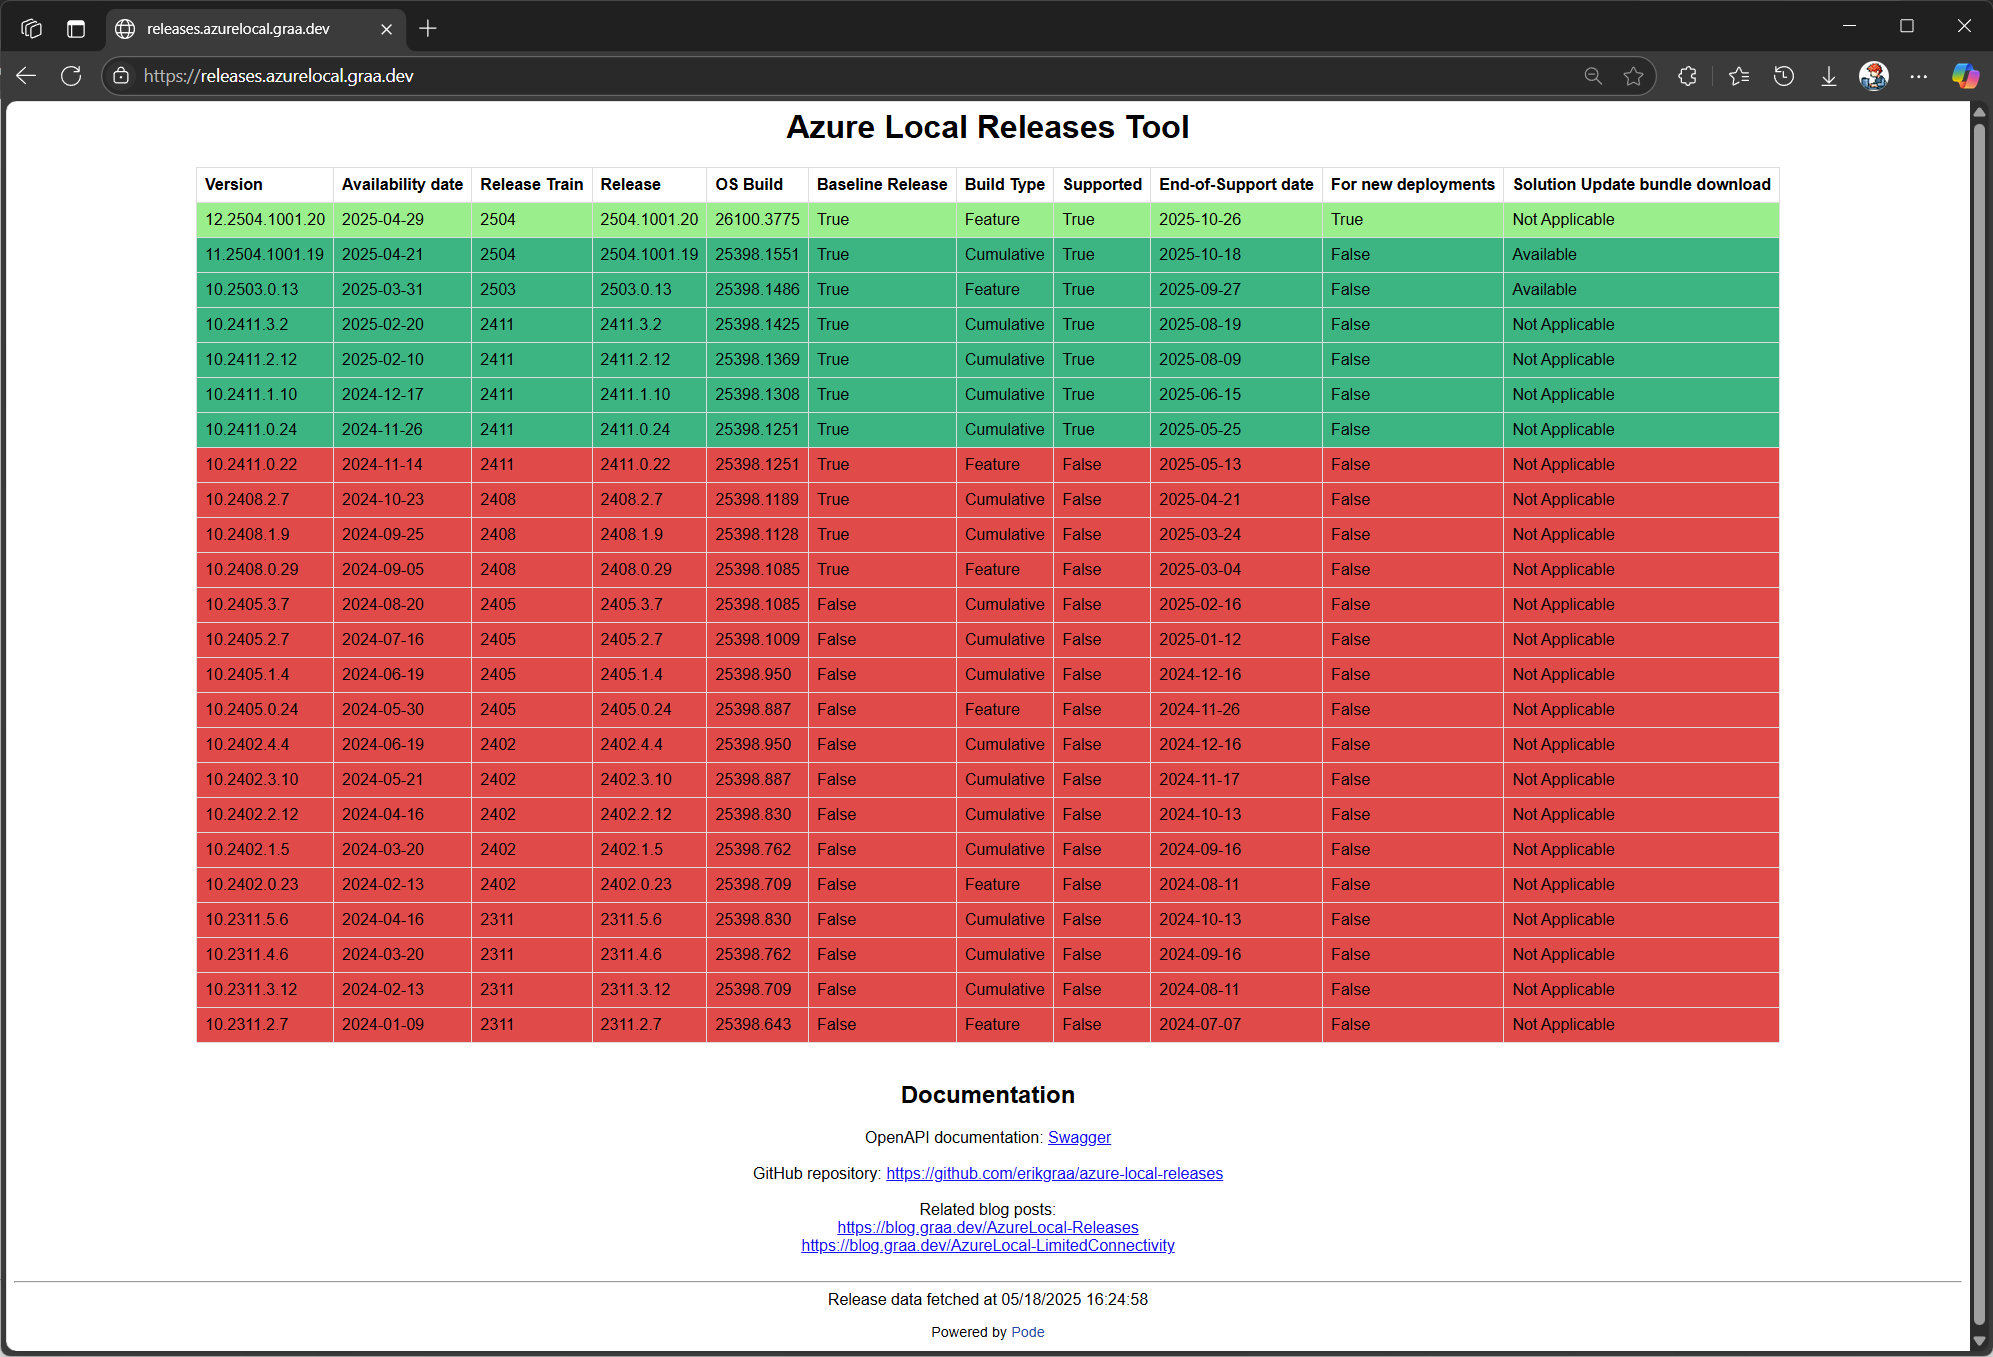
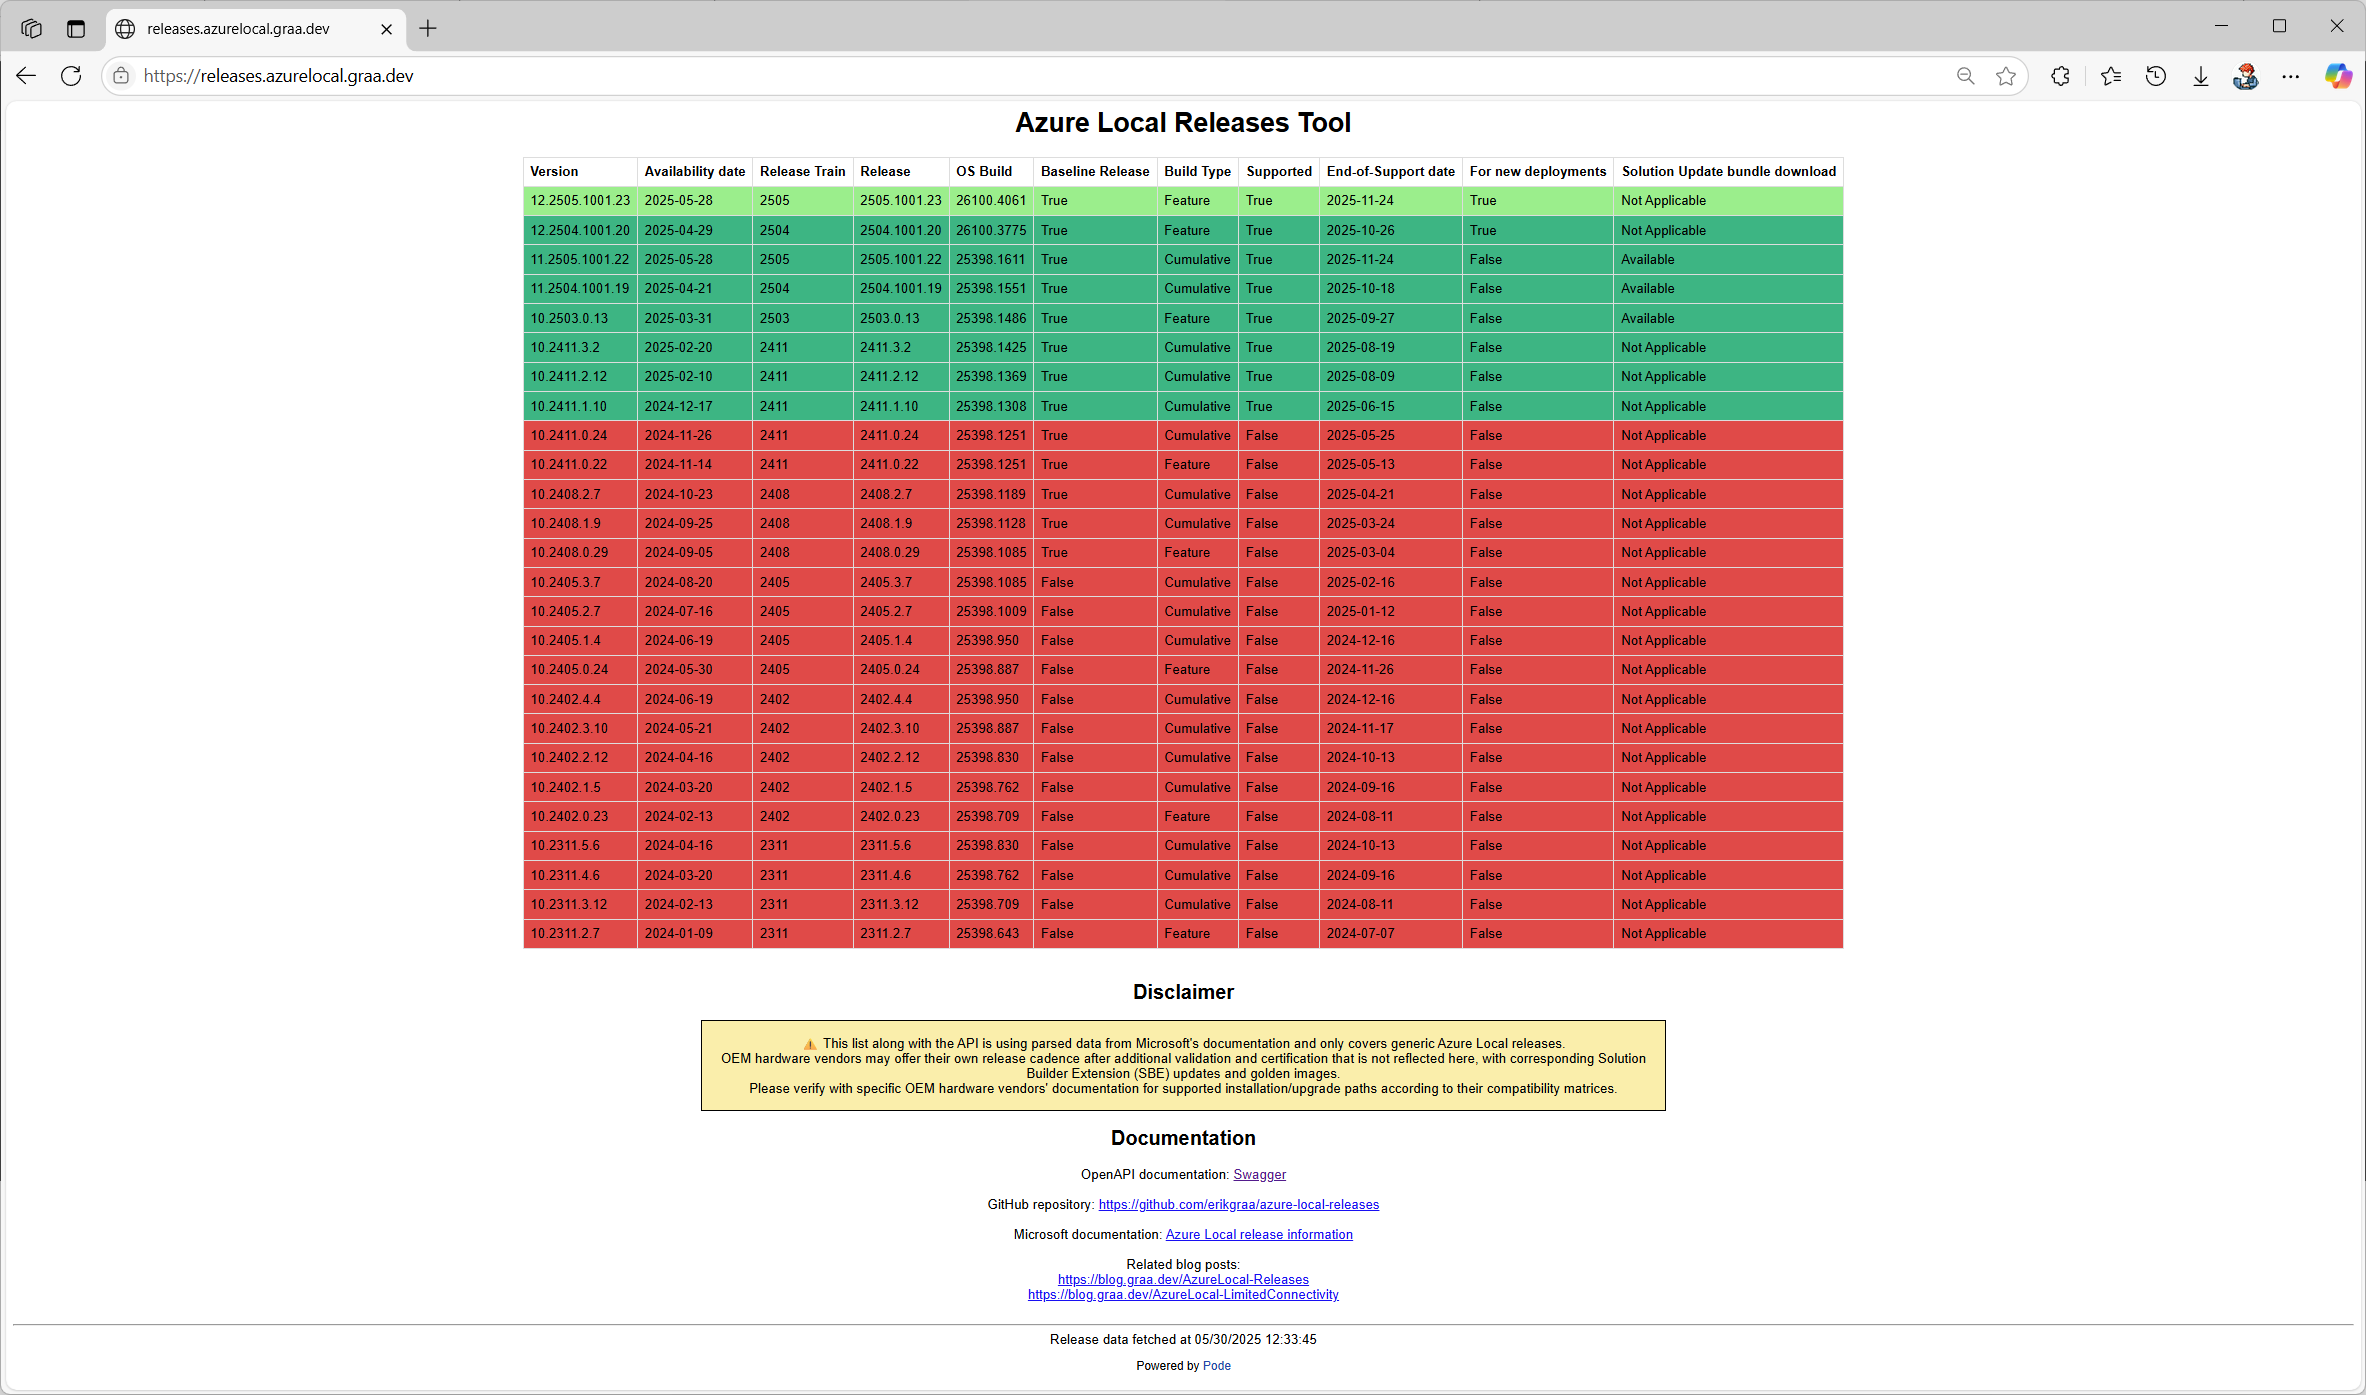
New demo image and added information in README

diff --git a/README.md b/README.md
@@ -4,6 +4,9 @@ The artifacts in this repository help increasing observability and traceability 
 
 [![GitHub Build and Deploy](https://github.com/erikgraa/azure-local-releases/actions/workflows/containerapp.yml/badge.svg)](https://github.com/erikgraa/azure-local-releases/actions/workflows/containerapp.yml)
 
+> [!IMPORTANT]  
+> This tool only covers generic Azure Local releases as parsed from [Microsoft's documentation](https://learn.microsoft.com/en-us/azure/azure-local/release-information-23h2). Please verify with specific OEM hardware vendors' documentation for supported installation/upgrade paths according to their particular compatibility matrices
+
 ## 🎬 Demo
 
 See a live demo of the Azure Local Releases Pode API at https://releases.azurelocal.graa.dev (hosted as an Azure Container App).
